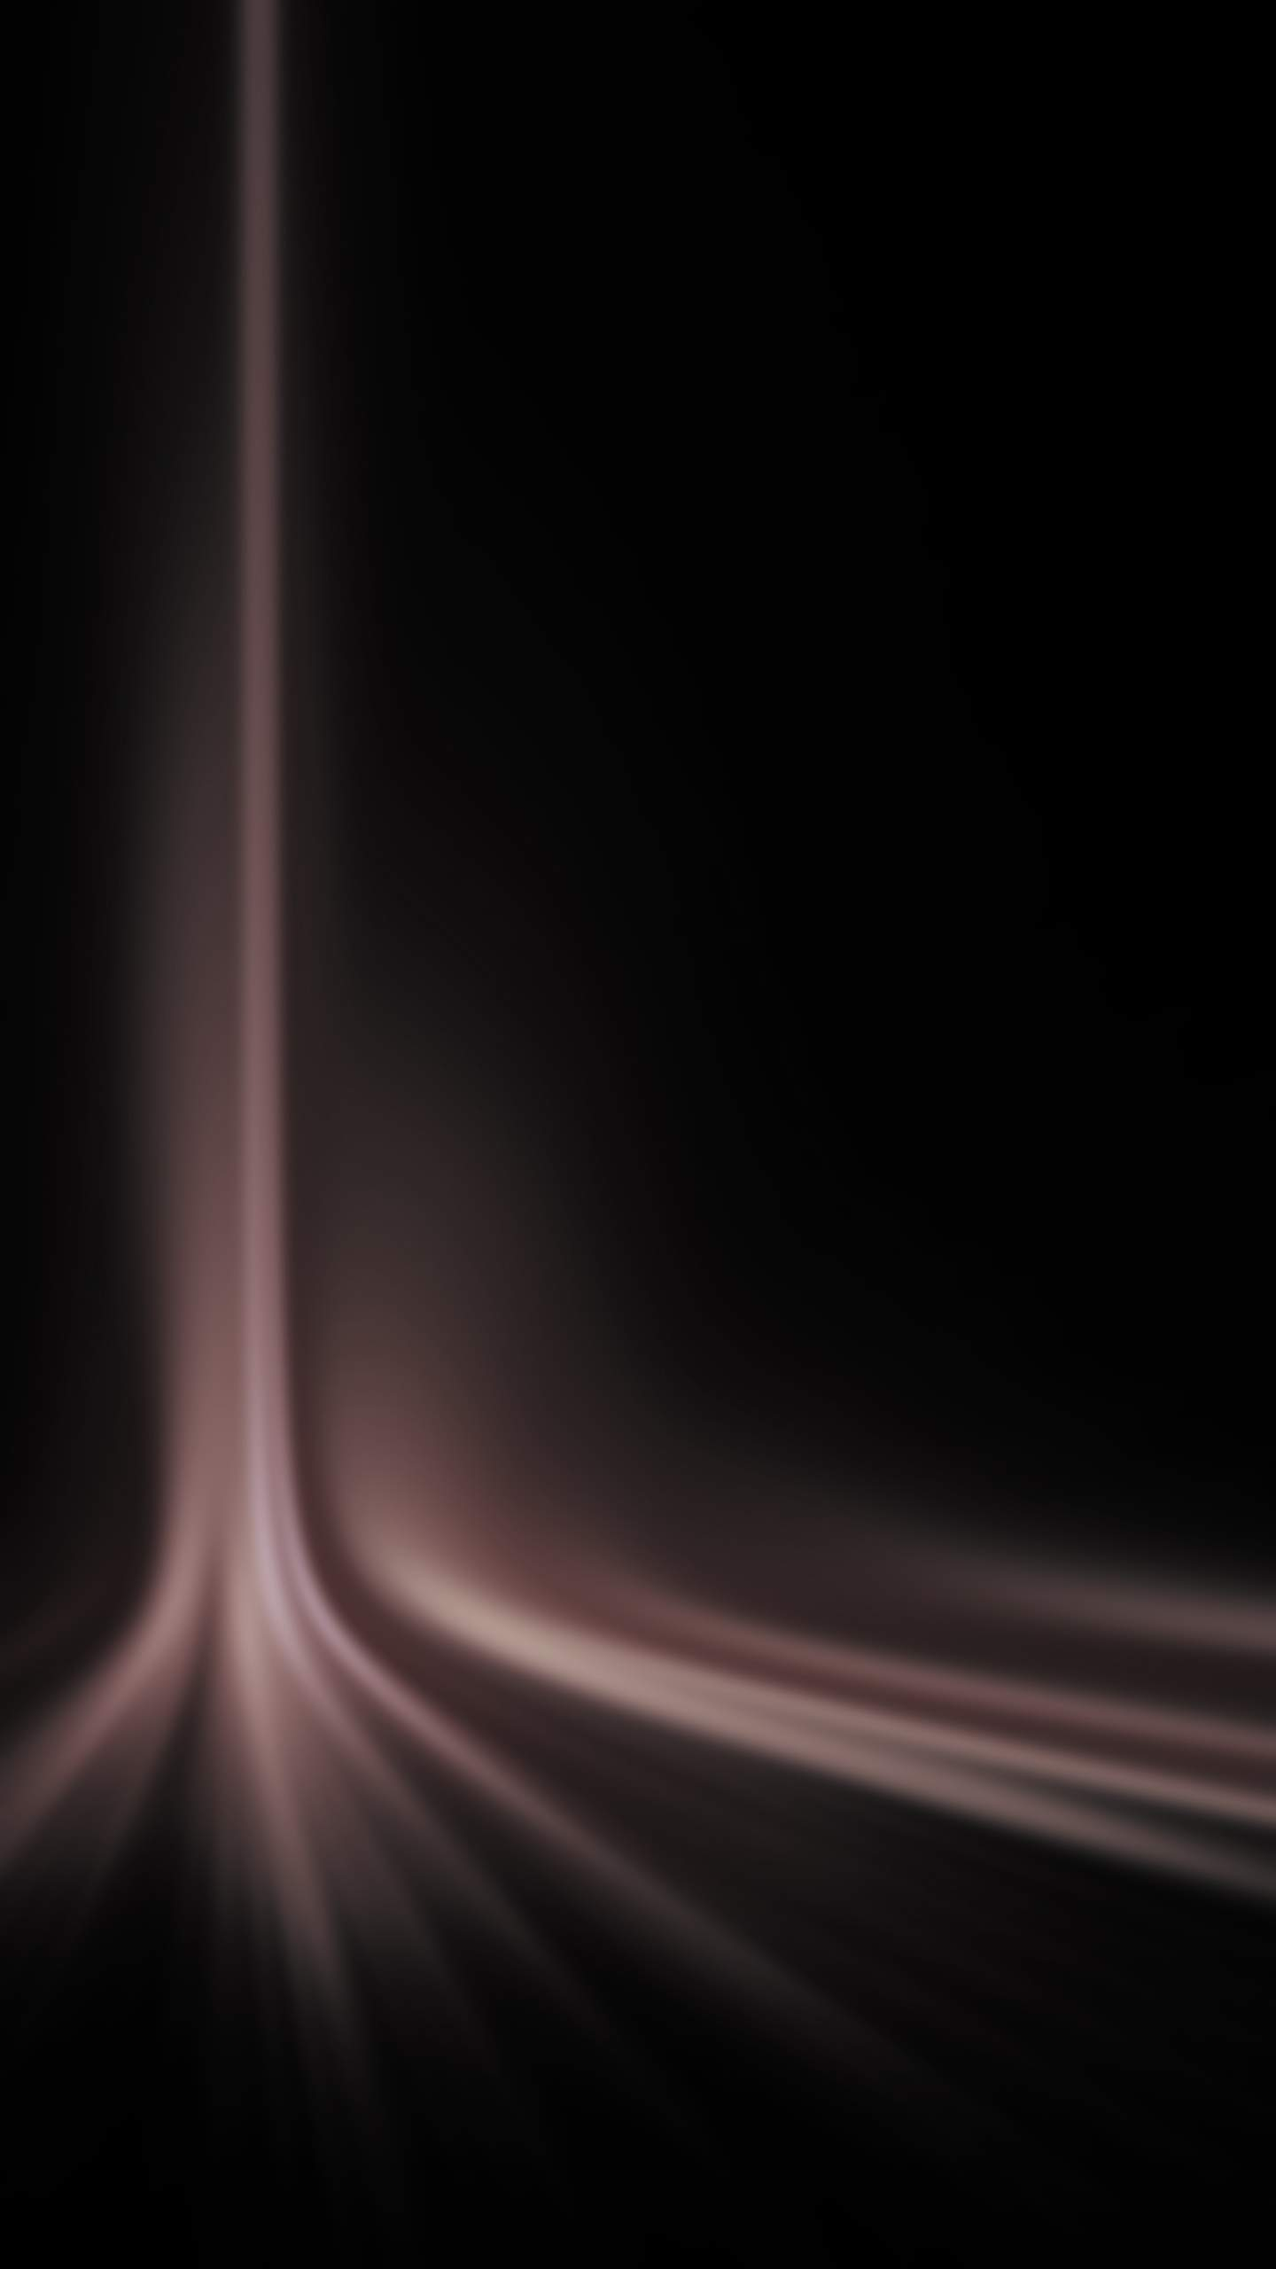
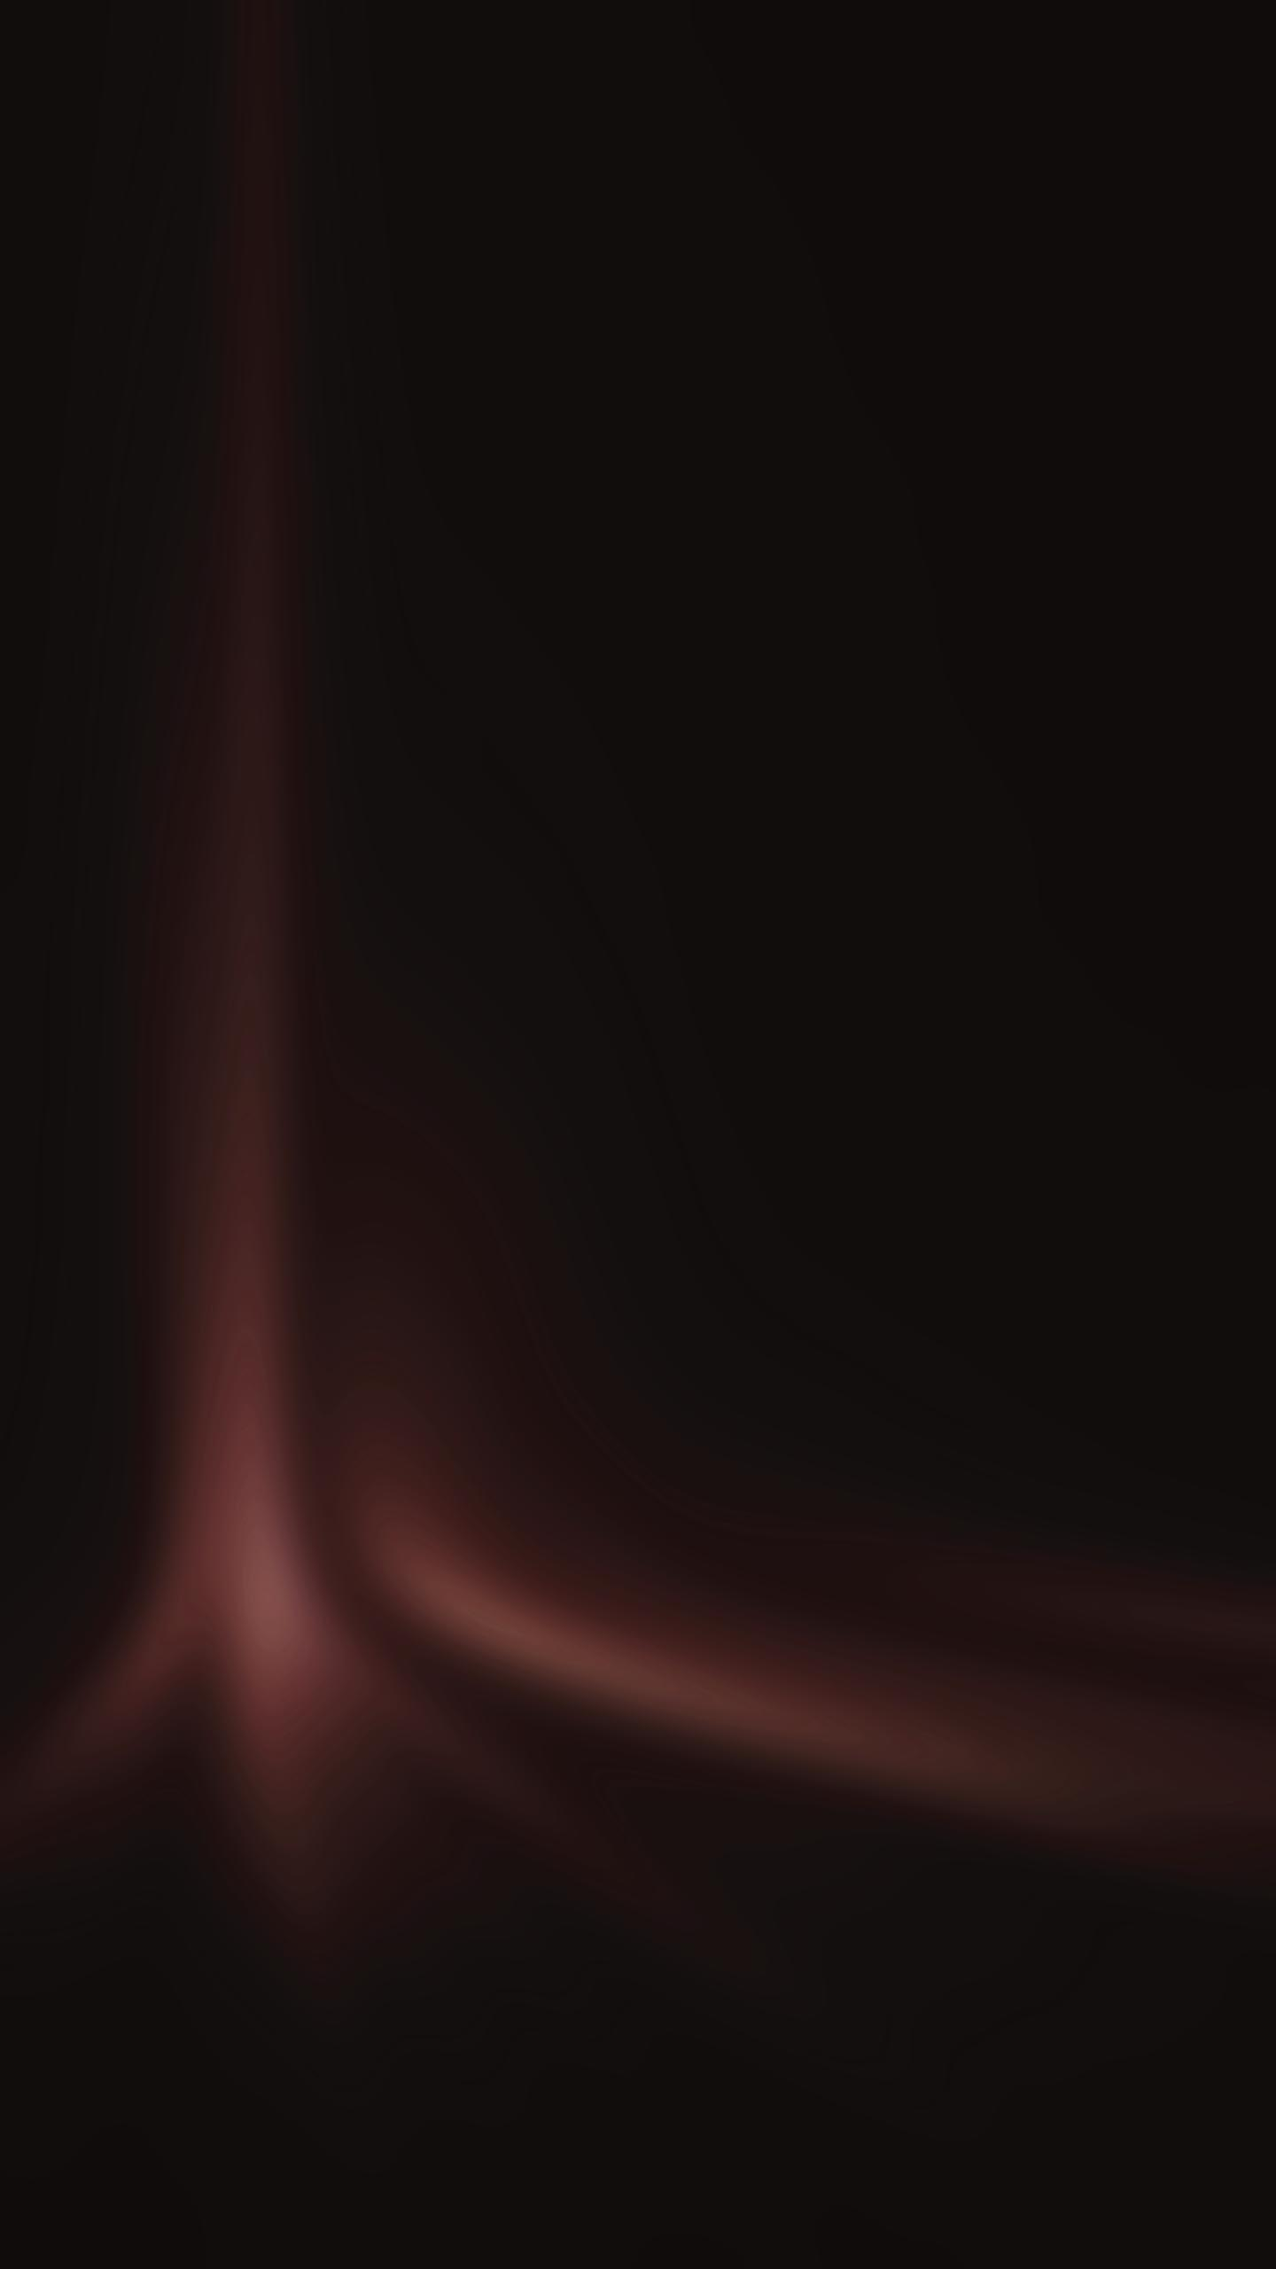
this should fix that

Changed region(s): [[0.0, 0.0, 1.0, 0.875]]

diff --git a/media-max-960.min.css b/media-max-960.min.css
@@ -1,8 +1,1 @@
-@media screen and (max-width:960px){.footer_social{width:200px;display:-webkit-box;display:-ms-flexbox;display:flex;-webkit-box-align:center;-ms-flex-align:center;align-items:center;flex:1 100%}.skills-heading{font-family:cool;color:#fff;font-size:22px;margin:20px 50px 25px 43px;border-bottom:1px solid #fff}.made{padding-left:0}.skill-background{background-size:cover; background: url(VCmTBd-edited__1556690067_182.59.107.59.jpg) no-repeat -175px center scroll,
-         -webkit-gradient(linear, left top, left bottom, from(rgba(0, 0, 0, 0.9)), to(rgba(0, 0, 0, 0.4)));
-         background: url(VCmTBd-edited__1556690067_182.59.107.59.jpg) no-repeat -175px center scroll,
-         -webkit-linear-gradient(rgba(0, 0, 0, 0.9), rgba(0, 0, 0, 0.4));
-         background: url(VCmTBd-edited__1556690067_182.59.107.59.jpg) no-repeat -175px center scroll,
-         -o-linear-gradient(rgba(0, 0, 0, 0.9), rgba(0, 0, 0, 0.4));
-         background: url(VCmTBd-edited__1556690067_182.59.107.59.jpg) no-repeat -175px center scroll,
-         linear-gradient(rgba(0, 0, 0, 0.9), rgba(0, 0, 0, 0.4));background-blend-mode:hue;height:100%}.footer_social{width:200px;display:-webkit-box;display:-ms-flexbox;display:flex;-webkit-box-align:center;-ms-flex-align:center;align-items:center;flex:1 100%}.footer{height:15%;background:#141414;display:-webkit-box;display:-ms-flexbox;display:flex;-webkit-box-orient:vertical;-webkit-box-direction:reverse;-ms-flex-direction:column-reverse;flex-direction:column-reverse;-webkit-box-pack:center;-ms-flex-pack:center;justify-content:center;-webkit-box-align:center;-ms-flex-align:center;-ms-grid-row-align:center;align-items:center}.all-progressbar-container{height:120%}.progress-bar-master-container{margin-top:20px;}.knob-main{-webkit-box-orient:vertical;-webkit-box-direction:normal;-ms-flex-direction:column;flex-direction:column;padding-top:25px}.education-knob-container{height:auto}.education-container{height:600px}.blank{height:0}midsection{-webkit-box-orient:vertical;-webkit-box-direction:normal;-ms-flex-direction:column;flex-direction:column}education{-webkit-box-orient:vertical;-webkit-box-direction:normal;-ms-flex-direction:column;flex-direction:column;display:block}contact{display:-webkit-box;display:-ms-flexbox;display:flex;-webkit-box-orient:vertical;-webkit-box-direction:reverse;-ms-flex-direction:column-reverse;flex-direction:column-reverse}.mid-main{width:100%;-webkit-box-flex:1;-ms-flex:auto;flex:auto}.mid-main-map{height:85%;width:100%}about{-webkit-box-orient:vertical;-webkit-box-direction:normal;-ms-flex-direction:column;flex-direction:column}.contact_main{-webkit-box-orient:vertical;-webkit-box-direction:reverse;-ms-flex-direction:column-reverse;flex-direction:column-reverse}.top-menu{height:100%;top:-200%!important;-webkit-box-orient:vertical;-webkit-box-direction:normal;-ms-flex-direction:column;flex-direction:column;-webkit-box-align:center;-ms-flex-align:center;-ms-grid-row-align:center;align-items:center;-webkit-box-pack:center;-ms-flex-pack:center;justify-content:center;background-color:rgba(0,0,0,1)!important}.head-main{font-size:53px}.webdeveloper{font-size:20px;font-family:cool;margin-bottom:13px}.social-media-homepage{display:-webkit-box;display:-ms-flexbox;display:flex;-webkit-box-pack:center;-ms-flex-pack:center;justify-content:center;-webkit-box-align:center;-ms-flex-align:center;align-items:center;width:100%}.about{padding:26px;margin-left:0!important}.top-menu-sub{padding:26px;margin-left:0!important}.mid-main-container{display:block!important;flex:0}.mid-main-content{display:-webkit-box;display:-ms-flexbox;display:flex;-webkit-box-flex:1;-ms-flex:1 100%;flex:1 100%;position:relative;-webkit-box-pack:center;-ms-flex-pack:center;justify-content:center;-webkit-box-orient:vertical;-webkit-box-direction:normal;-ms-flex-direction:column;flex-direction:column;margin-left:32px;margin-right:32px;margin-top:70px}.mid-main-content-heading{font-weight:500;color:#000;-webkit-box-flex:0;-ms-flex:none;flex:none;display:-webkit-box;display:-ms-flexbox;display:flex;margin-left:11px}.mid-main-content-heading-date{font-size:12px;color:#2d2d2d}.mid-main-content-heading-degree{font-size:12px;color:#b5b5b5;margin-left:2px}.mid-main-content-heading-degree:before{content:" @ "}.mid-main-content-division{border-bottom:1px solid #b5b5b5;-webkit-box-flex:0;-ms-flex:none;flex:none;width:100%;margin-top:5px}.experience-division{height:0}.mid-main-content-material{font-size:12px;margin-left:10px;letter-spacing:.5px;color:#737373;margin-top:15px}.progress-bar-container{margin-top:10px;background-color:#a5a3a3;height:1px;margin-left:20px;margin-right:51px;display:-webkit-box;display:-ms-flexbox;display:flex;-webkit-box-align:center;-ms-flex-align:center;align-items:center}.add_on{margin-top:22px!important;margin-left:32px!important;-webkit-box-flex:0;-ms-flex:none;flex:none}.about_me_text{position:relative;font-family:cool;margin-left:48px;margin-right:42px;letter-spacing:0;font-size:12px;coloR:#737373;margin-top:15px;font-style:italic;line-height:18px;-webkit-box-flex:0;-ms-flex:none;flex:none}.certifications{margin-left:21px!important;-webkit-box-flex:1;-ms-flex:1 100%;flex:1 100%;display:-webkit-box;display:-ms-flexbox;display:flex;-webkit-box-pack:center;-ms-flex-pack:center;justify-content:center;-webkit-box-orient:vertical;-webkit-box-direction:normal;-ms-flex-direction:column;flex-direction:column;margin-top:50px}.cert_content{height:none}.image_enclose{height:28px;width:28px;border:1px solid #c7c7c7;display:-webkit-box;display:-ms-flexbox;display:flex;-webkit-box-pack:center;-ms-flex-pack:center;justify-content:center;-webkit-box-align:center;-ms-flex-align:center;align-items:center;border-radius:50%}.certification_heading{margin-left:16px;display:-webkit-box;display:-ms-flexbox;display:flex;-webkit-box-pack:center;-ms-flex-pack:center;justify-content:center;-webkit-box-align:center;-ms-flex-align:center;align-items:center;position:relative;letter-spacing:.8;font-size:13px}.cert_one{font-size:12px;font-family:cool;letter-spacing:.3px;margin-left:29px;margin-top:13px;color:#737373;margin-right:29px;line-height:18px}.extras{margin-left:21px;-webkit-box-flex:1;-ms-flex:1 100%;flex:1 100%;display:-webkit-box;display:-ms-flexbox;display:flex;-webkit-box-pack:center;-ms-flex-pack:center;justify-content:center;-webkit-box-orient:vertical;-webkit-box-direction:normal;-ms-flex-direction:column;flex-direction:column;margin-top:15px}.mid-main-cont-add-on{margin-bottom:0!important}.mid-main-left{padding-bottom:70px}.header-sub{font-family:greatVibes;position:absolute;height:calc(100% - 60px);width:100%;top:0;left:0}.name-and-email-container{display:-webkit-box;display:-ms-flexbox;display:flex;-webkit-box-pack:center;-ms-flex-pack:center;justify-content:center;margin-left:15px;margin-right:27px;-webkit-box-orient:vertical;-webkit-box-direction:normal;-ms-flex-direction:column;flex-direction:column;height:99px}.contact-email-container{-webkit-box-flex:1;-ms-flex:1 100%;flex:1 100%}.contact-input-email-and-name{width:100%;height:40px;padding-left:10px;outline:0;font-family:cool;border:none;border:1px solid #a9a9a9}.contact-email-name-sub-container{-webkit-box-flex:1;-ms-flex:1 100%;flex:1 100%;margin-left:11px}.contact-textarea{width:100%;resize:none;height:113px;padding:10px;font-family:cool;outline:0;border:none;border:1px solid #a9a9a9}.contact-content-container{margin-left:25px;margin-right:25px}.contact-buttons-container{margin-left:25px;margin-top:13px;display:-webkit-box;display:-ms-flexbox;display:flex;-webkit-box-align:center;-ms-flex-align:center;align-items:center}.contact-send-button{border:1px solid #a9a9a9;height:40px;width:152px;display:-webkit-box;display:-ms-flexbox;display:flex;-webkit-box-align:center;-ms-flex-align:center;align-items:center;-webkit-box-pack:center;-ms-flex-pack:center;justify-content:center;color:#a9a9a9;font-family:cool;font-size:14px;cursor:pointer}.no-margin{padding-bottom:0}.progress-bar-master-container:last-of-type{margin-bottom:60px!important}.specifics{margin-top:10%;height:166px;-webkit-box-orient:vertical;-webkit-box-direction:normal;-ms-flex-direction:column;flex-direction:column}}
+@media screen and (max-width:960px){.footer_social{width:200px;display:-webkit-box;display:-ms-flexbox;display:flex;-webkit-box-align:center;-ms-flex-align:center;align-items:center;flex:1 100%}.skills-heading{font-family:cool;color:#fff;font-size:22px;margin:20px 50px 25px 43px;border-bottom:1px solid #fff}.made{padding-left:0}.skill-background{background-size:cover;background: url(VCmTBd-edited__1556690067_182.59.107.59.jpg) no-repeat -186px -1150PX fixed;background-blend-mode:hue;height:100%}.footer_social{width:200px;display:-webkit-box;display:-ms-flexbox;display:flex;-webkit-box-align:center;-ms-flex-align:center;align-items:center;flex:1 100%}.footer{height:15%;background:#141414;display:-webkit-box;display:-ms-flexbox;display:flex;-webkit-box-orient:vertical;-webkit-box-direction:reverse;-ms-flex-direction:column-reverse;flex-direction:column-reverse;-webkit-box-pack:center;-ms-flex-pack:center;justify-content:center;-webkit-box-align:center;-ms-flex-align:center;-ms-grid-row-align:center;align-items:center}.all-progressbar-container{height:120%}.progress-bar-master-container{margin-top:20px;}.knob-main{-webkit-box-orient:vertical;-webkit-box-direction:normal;-ms-flex-direction:column;flex-direction:column;padding-top:25px}.education-knob-container{height:auto}.education-container{height:600px}.blank{height:0}midsection{-webkit-box-orient:vertical;-webkit-box-direction:normal;-ms-flex-direction:column;flex-direction:column}education{-webkit-box-orient:vertical;-webkit-box-direction:normal;-ms-flex-direction:column;flex-direction:column;display:block}contact{display:-webkit-box;display:-ms-flexbox;display:flex;-webkit-box-orient:vertical;-webkit-box-direction:reverse;-ms-flex-direction:column-reverse;flex-direction:column-reverse}.mid-main{width:100%;-webkit-box-flex:1;-ms-flex:auto;flex:auto}.mid-main-map{height:85%;width:100%}about{-webkit-box-orient:vertical;-webkit-box-direction:normal;-ms-flex-direction:column;flex-direction:column}.contact_main{-webkit-box-orient:vertical;-webkit-box-direction:reverse;-ms-flex-direction:column-reverse;flex-direction:column-reverse}.top-menu{height:100%;top:-200%!important;-webkit-box-orient:vertical;-webkit-box-direction:normal;-ms-flex-direction:column;flex-direction:column;-webkit-box-align:center;-ms-flex-align:center;-ms-grid-row-align:center;align-items:center;-webkit-box-pack:center;-ms-flex-pack:center;justify-content:center;background-color:rgba(0,0,0,1)!important}.head-main{font-size:53px}.webdeveloper{font-size:20px;font-family:cool;margin-bottom:13px}.social-media-homepage{display:-webkit-box;display:-ms-flexbox;display:flex;-webkit-box-pack:center;-ms-flex-pack:center;justify-content:center;-webkit-box-align:center;-ms-flex-align:center;align-items:center;width:100%}.about{padding:26px;margin-left:0!important}.top-menu-sub{padding:26px;margin-left:0!important}.mid-main-container{display:block!important;flex:0}.mid-main-content{display:-webkit-box;display:-ms-flexbox;display:flex;-webkit-box-flex:1;-ms-flex:1 100%;flex:1 100%;position:relative;-webkit-box-pack:center;-ms-flex-pack:center;justify-content:center;-webkit-box-orient:vertical;-webkit-box-direction:normal;-ms-flex-direction:column;flex-direction:column;margin-left:32px;margin-right:32px;margin-top:70px}.mid-main-content-heading{font-weight:500;color:#000;-webkit-box-flex:0;-ms-flex:none;flex:none;display:-webkit-box;display:-ms-flexbox;display:flex;margin-left:11px}.mid-main-content-heading-date{font-size:12px;color:#2d2d2d}.mid-main-content-heading-degree{font-size:12px;color:#b5b5b5;margin-left:2px}.mid-main-content-heading-degree:before{content:" @ "}.mid-main-content-division{border-bottom:1px solid #b5b5b5;-webkit-box-flex:0;-ms-flex:none;flex:none;width:100%;margin-top:5px}.experience-division{height:0}.mid-main-content-material{font-size:12px;margin-left:10px;letter-spacing:.5px;color:#737373;margin-top:15px}.progress-bar-container{margin-top:10px;background-color:#a5a3a3;height:1px;margin-left:20px;margin-right:51px;display:-webkit-box;display:-ms-flexbox;display:flex;-webkit-box-align:center;-ms-flex-align:center;align-items:center}.add_on{margin-top:22px!important;margin-left:32px!important;-webkit-box-flex:0;-ms-flex:none;flex:none}.about_me_text{position:relative;font-family:cool;margin-left:48px;margin-right:42px;letter-spacing:0;font-size:12px;coloR:#737373;margin-top:15px;font-style:italic;line-height:18px;-webkit-box-flex:0;-ms-flex:none;flex:none}.certifications{margin-left:21px!important;-webkit-box-flex:1;-ms-flex:1 100%;flex:1 100%;display:-webkit-box;display:-ms-flexbox;display:flex;-webkit-box-pack:center;-ms-flex-pack:center;justify-content:center;-webkit-box-orient:vertical;-webkit-box-direction:normal;-ms-flex-direction:column;flex-direction:column;margin-top:50px}.cert_content{height:none}.image_enclose{height:28px;width:28px;border:1px solid #c7c7c7;display:-webkit-box;display:-ms-flexbox;display:flex;-webkit-box-pack:center;-ms-flex-pack:center;justify-content:center;-webkit-box-align:center;-ms-flex-align:center;align-items:center;border-radius:50%}.certification_heading{margin-left:16px;display:-webkit-box;display:-ms-flexbox;display:flex;-webkit-box-pack:center;-ms-flex-pack:center;justify-content:center;-webkit-box-align:center;-ms-flex-align:center;align-items:center;position:relative;letter-spacing:.8;font-size:13px}.cert_one{font-size:12px;font-family:cool;letter-spacing:.3px;margin-left:29px;margin-top:13px;color:#737373;margin-right:29px;line-height:18px}.extras{margin-left:21px;-webkit-box-flex:1;-ms-flex:1 100%;flex:1 100%;display:-webkit-box;display:-ms-flexbox;display:flex;-webkit-box-pack:center;-ms-flex-pack:center;justify-content:center;-webkit-box-orient:vertical;-webkit-box-direction:normal;-ms-flex-direction:column;flex-direction:column;margin-top:15px}.mid-main-cont-add-on{margin-bottom:0!important}.mid-main-left{padding-bottom:70px}.header-sub{font-family:greatVibes;position:absolute;height:calc(100% - 60px);width:100%;top:0;left:0}.name-and-email-container{display:-webkit-box;display:-ms-flexbox;display:flex;-webkit-box-pack:center;-ms-flex-pack:center;justify-content:center;margin-left:15px;margin-right:27px;-webkit-box-orient:vertical;-webkit-box-direction:normal;-ms-flex-direction:column;flex-direction:column;height:99px}.contact-email-container{-webkit-box-flex:1;-ms-flex:1 100%;flex:1 100%}.contact-input-email-and-name{width:100%;height:40px;padding-left:10px;outline:0;font-family:cool;border:none;border:1px solid #a9a9a9}.contact-email-name-sub-container{-webkit-box-flex:1;-ms-flex:1 100%;flex:1 100%;margin-left:11px}.contact-textarea{width:100%;resize:none;height:113px;padding:10px;font-family:cool;outline:0;border:none;border:1px solid #a9a9a9}.contact-content-container{margin-left:25px;margin-right:25px}.contact-buttons-container{margin-left:25px;margin-top:13px;display:-webkit-box;display:-ms-flexbox;display:flex;-webkit-box-align:center;-ms-flex-align:center;align-items:center}.contact-send-button{border:1px solid #a9a9a9;height:40px;width:152px;display:-webkit-box;display:-ms-flexbox;display:flex;-webkit-box-align:center;-ms-flex-align:center;align-items:center;-webkit-box-pack:center;-ms-flex-pack:center;justify-content:center;color:#a9a9a9;font-family:cool;font-size:14px;cursor:pointer}.no-margin{padding-bottom:0}.progress-bar-master-container:last-of-type{margin-bottom:60px!important}.specifics{margin-top:10%;height:166px;-webkit-box-orient:vertical;-webkit-box-direction:normal;-ms-flex-direction:column;flex-direction:column}}

diff --git a/media-max-960.css b/media-max-960.css
@@ -25,14 +25,7 @@
 
     .skill-background {
         background-size: cover;
-         background: url(VCmTBd-edited__1556690067_182.59.107.59.jpg) no-repeat -175px center scroll,
-         -webkit-gradient(linear, left top, left bottom, from(rgba(0, 0, 0, 0.9)), to(rgba(0, 0, 0, 0.4)));
-         background: url(VCmTBd-edited__1556690067_182.59.107.59.jpg) no-repeat -175px center scroll,
-         -webkit-linear-gradient(rgba(0, 0, 0, 0.9), rgba(0, 0, 0, 0.4));
-         background: url(VCmTBd-edited__1556690067_182.59.107.59.jpg) no-repeat -175px center scroll,
-         -o-linear-gradient(rgba(0, 0, 0, 0.9), rgba(0, 0, 0, 0.4));
-         background: url(VCmTBd-edited__1556690067_182.59.107.59.jpg) no-repeat -175px center scroll,
-         linear-gradient(rgba(0, 0, 0, 0.9), rgba(0, 0, 0, 0.4));
+        background: url(VCmTBd-edited__1556690067_182.59.107.59.jpg) no-repeat -186px -1150PX fixed;
         background-blend-mode: hue;
         height: 100%;
     }
